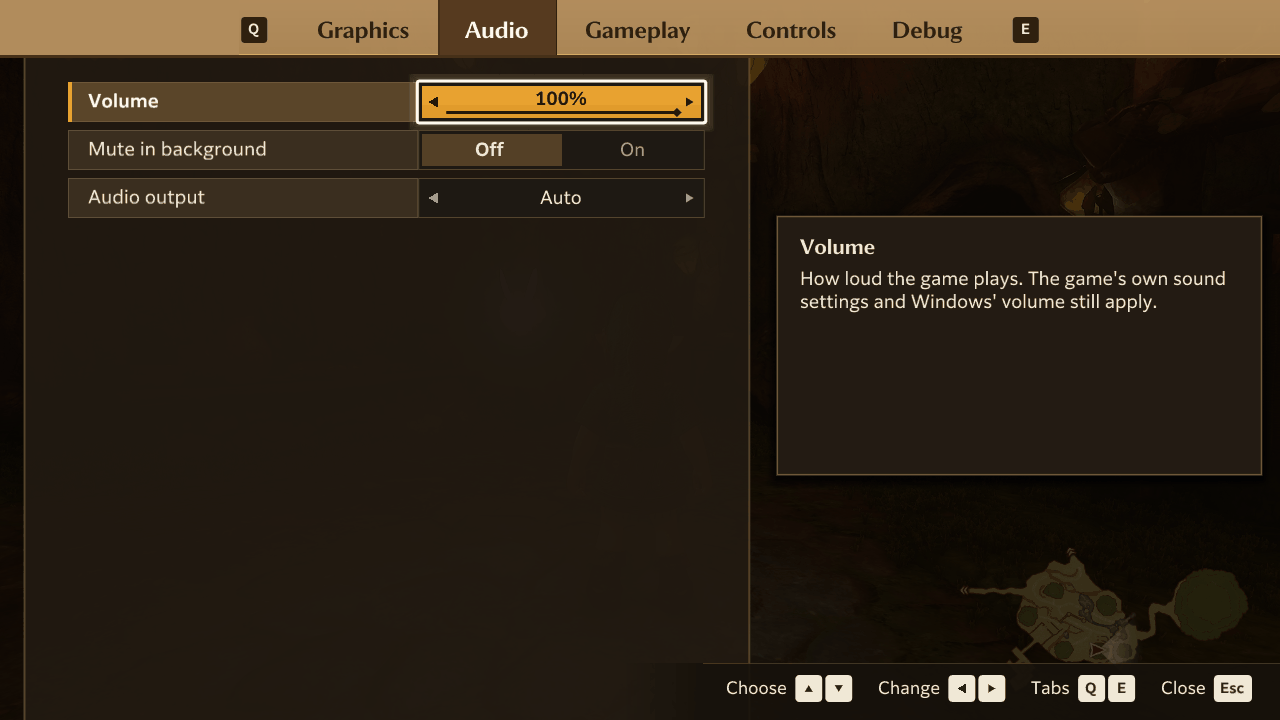
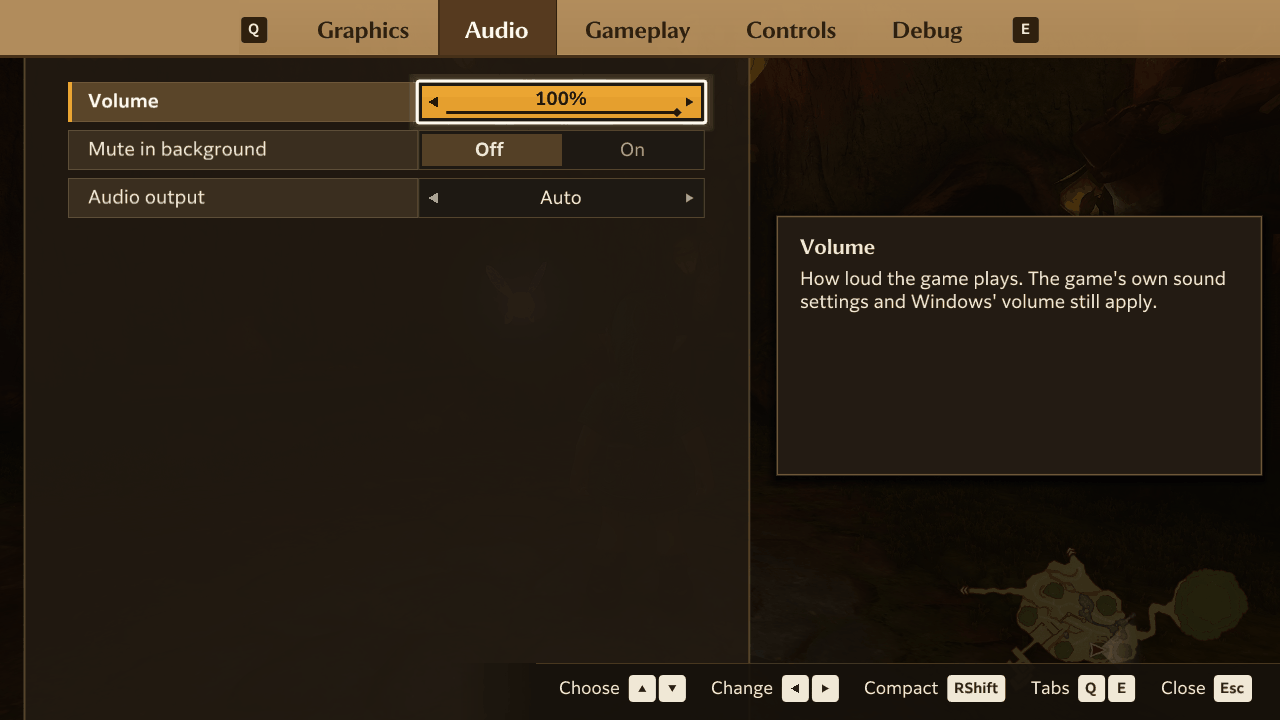
docs: menu screenshots from a build of current main, all five tabs
Taken headless on a game built from main 15646d18, default settings, no mods, a Kokiri Forest
save; the build string in the corner is covered.

Changed region(s): [[0.4375, 0.9167, 0.7812, 0.9778]]

diff --git a/docs/user/settings.md b/docs/user/settings.md
@@ -77,6 +77,8 @@ keeps the Docked profile, and Minimum starts with the scaling filter and sharpne
 
 ## Graphics
 
+![The Graphics tab of the settings menu](../images/user/menu-graphics.png)
+
 For more on the Upscaler, Render resolution and Frame generation, and how to pick between them, see
 [upscaling](upscaling.md).
 
@@ -195,6 +197,8 @@ These two rows sit above the button grid on the Controls page.
 | Button prompts | Auto, Switch, Xbox, PlayStation 4, PlayStation 5, Steam Deck | Auto | The button icons the game shows in its text and menus. **Auto** follows your first controller, and shows Switch icons when it can't tell. Applies after a restart |
 
 ## Debug
+
+![The Debug tab of the settings menu](../images/user/menu-debug.png)
 
 The debug tools are testing aids: they let you fly, move the camera freely, jump between places, switch Link's age,
 edit the inventory and set the clock. They're off by default. Turn on **Debug tools** to show them; turning it off
